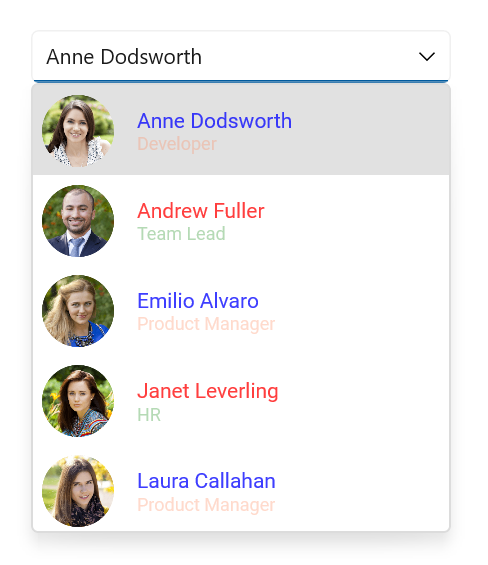
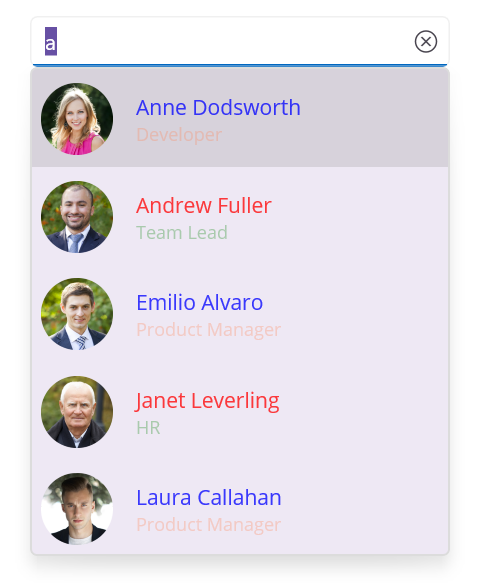
Updated Autocomplete images

diff --git a/MAUI/Autocomplete/UI-Customization.md b/MAUI/Autocomplete/UI-Customization.md
@@ -650,13 +650,6 @@ The [ItemTemplate](https://help.syncfusion.com/cr/maui/Syncfusion.Maui.Inputs.Dr
             });
             Employees.Add(new Employee
             {
-                Name = "Andrew Fuller",
-                ProfilePicture ="people_circle8.png",
-                Designation = "Team Lead",
-                ID = "E002",
-            });
-            Employees.Add(new Employee
-            {
                 Name = "Emilio Alvaro",
                 ProfilePicture = "people_circle7.png",
                 Designation = "Product Manager",
@@ -789,6 +782,8 @@ The [ItemTemplate](https://help.syncfusion.com/cr/maui/Syncfusion.Maui.Inputs.Dr
                                 SelectedItem="{Binding SelectedEmployee,Mode=TwoWay}"
                                 WidthRequest="280"
                                 HeightRequest="34"
+                                TextSearchMode="Contains"
+                                DropDownItemHeight="50"
                                 x:Name="autoComplete"
                                 ItemTemplate="{StaticResource employeeTemplateSelector}">
             <editors:SfAutocomplete.BindingContext>
